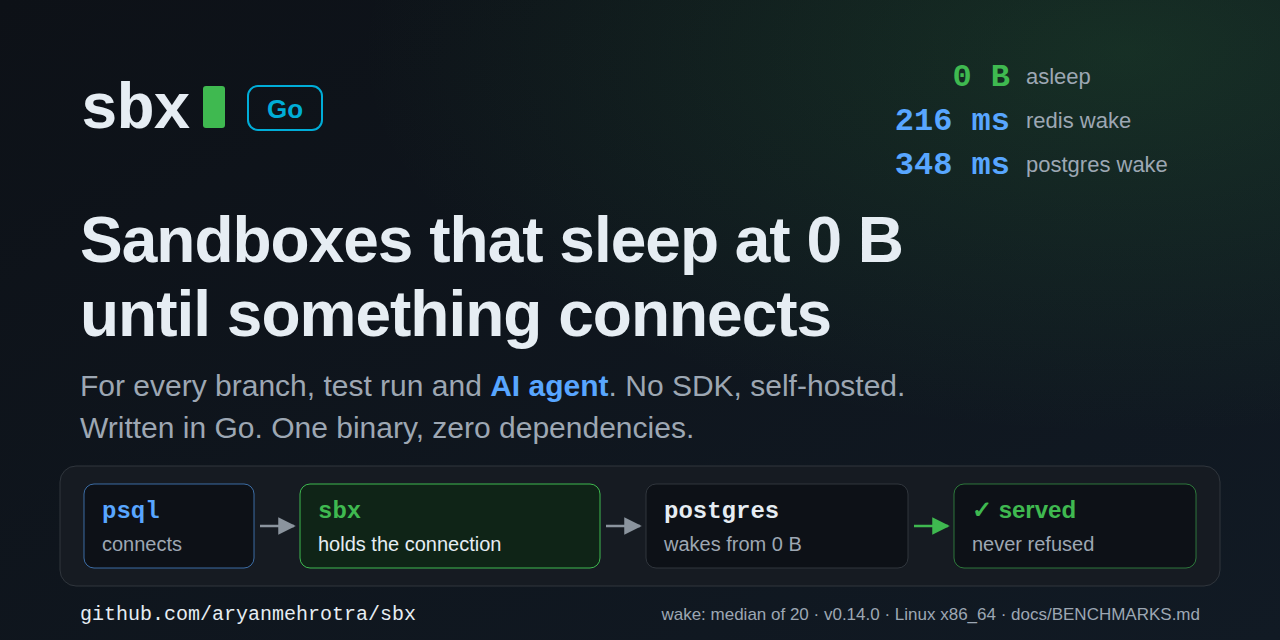
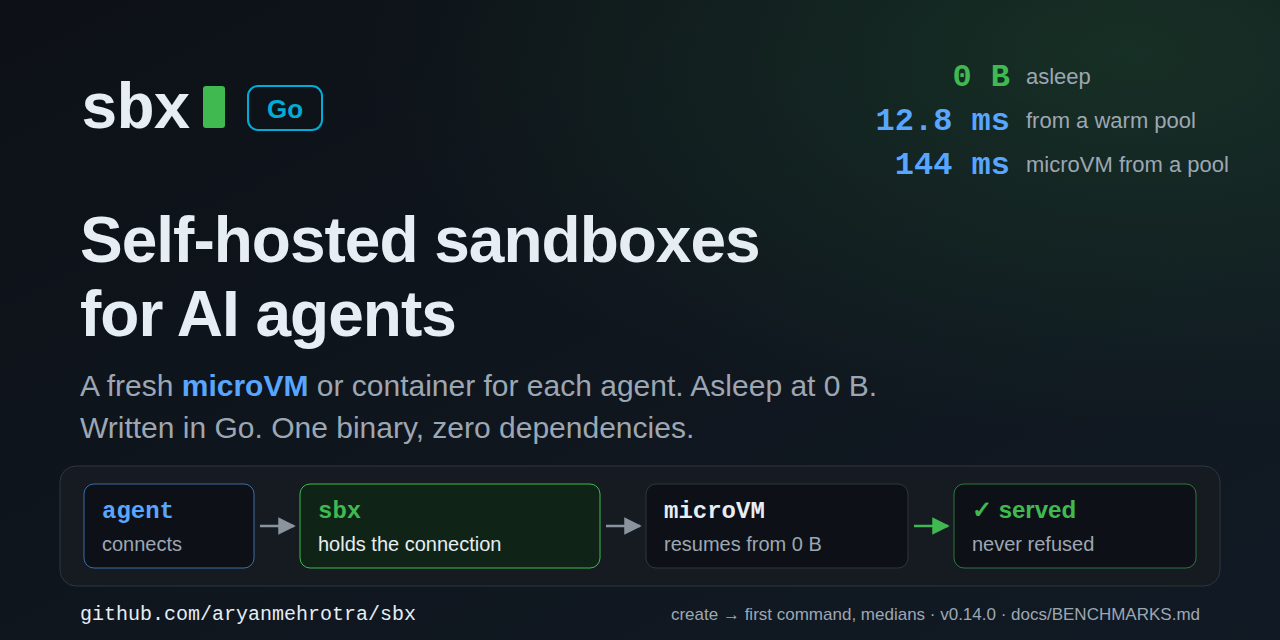
docs: lead with "Self-hosted sandboxes for AI agents" - a fresh microVM or container per agent
Keyword research (Hacker News story counts, GitHub topic counts, competitor headlines, dated
2026-09-27) put "sandboxes for AI agents" as the fastest-rising term (+350% in six months) and
"microVM" second (+123%), while branch-database terms have almost no audience. "Self-hosted",
"0 B asleep" and "wakes on the first connection" are the words no rival uses.

The README now opens with that line and a fresh Firecracker microVM or container per agent,
puts the OpenSandbox SDK example first and branch databases second, and says microVMs need
Linux with KVM. The hero and the social card carry the same headline, with agent numbers
(12.8 ms from a warm pool, 144 ms for a microVM from a pool) instead of database wakes, and
the chart leads with sbx against OpenSandbox's own server.

Claude-Session: https://claude.ai/code/session_01Qp3g1cxupGnrEXZgxmpvGb

diff --git a/scripts/lib/render-bench-chart.py b/scripts/lib/render-bench-chart.py
@@ -14,6 +14,14 @@ ROOT = os.path.dirname(os.path.dirname(os.path.dirname(os.path.abspath(__file__)
 
 PANELS = [
     {
+        "title": "OpenSandbox API: create a sandbox and run a first command",
+        "unit": "ms",
+        "rows": [
+            ("sbx", 307, "307 ms", "same SDK, same image"),
+            ("OpenSandbox server", 1417, "1,417 ms", ""),
+        ],
+    },
+    {
         "title": "Memory held by 20 idle Postgres databases",
         "unit": "MB",
         "rows": [
@@ -27,14 +35,6 @@ PANELS = [
         "rows": [
             ("sbx", 348, "348 ms", "first try served: 20 of 20"),
             ("Lazytainer (wakes on traffic)", 3407, "3,407 ms", "first try refused: 0 of 5"),
-        ],
-    },
-    {
-        "title": "OpenSandbox API: create a sandbox and run a first command",
-        "unit": "ms",
-        "rows": [
-            ("sbx", 307, "307 ms", "same SDK, same image"),
-            ("OpenSandbox server", 1417, "1,417 ms", ""),
         ],
     },
 ]

diff --git a/README.md b/README.md
@@ -1,6 +1,6 @@
 # sbx
 
-<img src="docs/hero.svg" width="900" alt="sbx: sandboxes that sleep at 0 B until something connects, for every branch, test run and AI agent. They sleep at 0 B of RAM and wakes in 216 ms for Redis or 348 ms for Postgres. psql connects, sbx holds the connection while Postgres wakes, then the same socket is served.">
+<img src="docs/hero.svg" width="900" alt="sbx: self-hosted sandboxes for AI agents. A fresh microVM or container for each agent, asleep at 0 B and awake on the first connection. An agent connects, sbx holds the connection while the microVM resumes, and the same socket is served.">
 
 [![CI](https://github.com/aryanmehrotra/sbx/actions/workflows/ci.yaml/badge.svg)](https://github.com/aryanmehrotra/sbx/actions/workflows/ci.yaml)
 [![Go Reference](https://pkg.go.dev/badge/github.com/aryanmehrotra/sbx.svg)](https://pkg.go.dev/github.com/aryanmehrotra/sbx)
@@ -9,22 +9,23 @@
 [![dependencies](https://img.shields.io/badge/dependencies-0-3fb950)](go.mod)
 [![license](https://img.shields.io/badge/license-MIT-blue)](LICENSE)
 
-sbx is a single Go binary that gives every branch, pull request or AI agent its own sandbox on
-your own machine: a Postgres, Redis or browser, or a place to run an agent's code. Each one sleeps
-at 0 B of RAM when nobody is using it, and wakes the moment anything connects to it.
+Self-hosted sandboxes for AI agents. sbx gives every agent, test run or branch its own sandbox on
+your machine or cluster: a fresh Firecracker microVM with its own kernel, or a container. Idle
+sandboxes sleep at 0 B of RAM and wake the moment anything connects.
 
-You don't call an SDK to wake it. Point `psql`, a connection pool, Playwright or your test runner
-at a sleeping sandbox and sbx holds that first connection open while the service starts, then
-hands it over. The client waits a moment and gets an answer, never a refused port.
+Agents drive it through the [OpenSandbox](https://github.com/opensandbox-group/OpenSandbox) API,
+an open standard with SDKs in five languages, or as tools over MCP. Anything else only has to
+connect: point `psql`, Playwright or a test runner at a sleeping sandbox and sbx holds the
+connection while it wakes, then hands it over.
 
 <picture>
   <source media="(prefers-color-scheme: dark)" srcset="docs/bench-dark.svg">
-  <img src="docs/bench-light.svg" width="900" alt="Memory held by 20 idle Postgres databases: sbx asleep 17.6 MB, docker compose always on 629 MB. Time until a sleeping Postgres answers psql: sbx 348 ms, first try served 20 of 20; Lazytainer 3,407 ms, first try refused 0 of 5. OpenSandbox API, create a sandbox and run a first command: sbx 307 ms, OpenSandbox server 1,417 ms.">
+  <img src="docs/bench-light.svg" width="900" alt="OpenSandbox API, create a sandbox and run a first command: sbx 307 ms, OpenSandbox server 1,417 ms. Memory held by 20 idle Postgres databases: sbx asleep 17.6 MB, docker compose always on 629 MB. Time until a sleeping Postgres answers psql: sbx 348 ms, first try served 20 of 20; Lazytainer 3,407 ms, first try refused 0 of 5.">
 </picture>
 
-- Works with any TCP client: `psql`, connection pools, Playwright, test runners
-- Written in Go with only the standard library: one static binary, zero dependencies, `go install` and done
-- The same `sandbox.json` runs on Docker, Kubernetes or Firecracker microVMs
+- A microVM per sandbox on Linux with KVM, or a container anywhere Docker runs
+- Written in Go with only the standard library: one static binary, zero dependencies
+- No account and nothing hosted: MIT licensed, on your own hardware
 
 Not to be confused with Docker's own `sbx` CLI (`docker/tap/sbx`).
 
@@ -35,47 +36,16 @@ brew install aryanmehrotra/tap/sbx
 ```
 
 Or `curl -fsSL https://raw.githubusercontent.com/aryanmehrotra/sbx/main/scripts/install.sh | sh`,
-or `go install github.com/aryanmehrotra/sbx@latest`. It needs Docker (or a Kubernetes cluster).
-Run `sbx doctor` to see what your machine supports.
+or `go install github.com/aryanmehrotra/sbx@latest`. It needs Docker or a Kubernetes cluster, and
+Linux with `/dev/kvm` for microVMs. Run `sbx doctor` to see what your machine supports.
 
-## Usage
-
-```sh
-# Start the daemon once per machine; it owns the ports and sleeps idle sandboxes
-sbx serve --idle 5m &
-
-# A Postgres for this branch, and its address in your shell
-sbx create my-branch --template postgres
-eval "$(sbx env my-branch)"
-
-# Connecting wakes it. There is no start or stop command.
-PGPASSWORD=app psql -U app -d app
-
-# Seed once, then give each agent its own copy
-sbx snapshot my-branch seeded
-sbx fork seeded agent-1
-
-# A throwaway database for one test run, removed even if the tests fail
-sbx with test-db --template postgres -- go test ./...
-
-# See everything, live
-sbx ui
-```
-
-Templates: `postgres`, `browser`, `nginx`, `web-stack` (Postgres and Redis) and `analytics`. For
-your own stack, write a `sandbox.json` in the repo ([SPEC.md](docs/SPEC.md)).
-
-<img src="docs/demo.svg" width="900" alt="A terminal recording of sbx: a sandbox is created from the postgres template, sleeps to 0 B when nobody connects, and a plain psql query wakes it. Then an agent reads its addresses as JSON, the sandbox is snapshotted and forked into agent-1, and a redis cache is added.">
-
-## For AI agents
-
-sbx also speaks the [OpenSandbox](https://github.com/opensandbox-group/OpenSandbox) API, an open
-standard for agent sandboxes with SDKs in five languages. Those SDKs work against your own machine
-unchanged, and OpenSandbox's own test suite runs against sbx in CI.
+## Sandboxes for AI agents
 
 ```sh
+# The daemon, serving the OpenSandbox API with four sandboxes started ahead of time
 sbx serve --osb-addr 127.0.0.1:8080 --osb-pool python:3.11-slim=4 &
 export OPEN_SANDBOX_DOMAIN=127.0.0.1:8080 OPEN_SANDBOX_API_KEY="$(cat ~/.sbx/osb/key)"
+pip install opensandbox
 ```
 
 ```python
@@ -86,10 +56,26 @@ print(sandbox.commands.run("python -c 'print(6 * 7)'").logs.stdout[0].text)  # 4
 sandbox.destroy()
 ```
 
-To give Claude Code, Cursor or Codex sandbox tools over MCP, run `claude mcp add sbx -- sbx mcp`
-while that daemon is running. Containers share the host's kernel; for code you don't trust, use
-`--provider firecracker` to give each sandbox its own kernel. More in
-[GUIDES.md](docs/GUIDES.md#ai-agents).
+Add `--provider firecracker` to `sbx serve` and every sandbox is a microVM with its own kernel,
+booted fresh from the image. To give Claude Code, Cursor or Codex sandboxes as tools, run
+`claude mcp add sbx -- sbx mcp` while the daemon runs. More in [GUIDES.md](docs/GUIDES.md#ai-agents).
+
+## Databases for branches and tests
+
+```sh
+sbx serve --idle 5m &                               # once per machine
+sbx create my-branch --template postgres            # a Postgres for this branch
+eval "$(sbx env my-branch)"
+PGPASSWORD=app psql -U app -d app                   # connecting wakes it
+
+sbx snapshot my-branch seeded && sbx fork seeded agent-1         # seed once, copy per agent
+sbx with test-db --template postgres -- go test ./...            # removed even if tests fail
+```
+
+Templates: `postgres`, `browser`, `nginx`, `web-stack` (Postgres and Redis) and `analytics`. For
+your own stack, write a `sandbox.json` ([SPEC.md](docs/SPEC.md)).
+
+<img src="docs/demo.svg" width="900" alt="A terminal recording of sbx: a sandbox is created from the postgres template, sleeps to 0 B when nobody connects, and a plain psql query wakes it. Then an agent reads its addresses as JSON, the sandbox is snapshotted and forked into agent-1, and a redis cache is added.">
 
 ## Documentation
 

diff --git a/docs/BENCHMARKS.md b/docs/BENCHMARKS.md
@@ -6,7 +6,7 @@ a row says otherwise: sbx v0.14.0 on one Linux machine, 2026-09-27 (details in t
 
 <picture>
   <source media="(prefers-color-scheme: dark)" srcset="bench-dark.svg">
-  <img src="bench-light.svg" width="900" alt="Memory held by 20 idle Postgres databases: sbx asleep 17.6 MB, docker compose always on 629 MB. Time until a sleeping Postgres answers psql: sbx 348 ms, first try served 20 of 20; Lazytainer 3,407 ms, first try refused 0 of 5. OpenSandbox API, create a sandbox and run a first command: sbx 307 ms, OpenSandbox server 1,417 ms.">
+  <img src="bench-light.svg" width="900" alt="OpenSandbox API, create a sandbox and run a first command: sbx 307 ms, OpenSandbox server 1,417 ms. Memory held by 20 idle Postgres databases: sbx asleep 17.6 MB, docker compose always on 629 MB. Time until a sleeping Postgres answers psql: sbx 348 ms, first try served 20 of 20; Lazytainer 3,407 ms, first try refused 0 of 5.">
 </picture>
 
 ## Head to head
